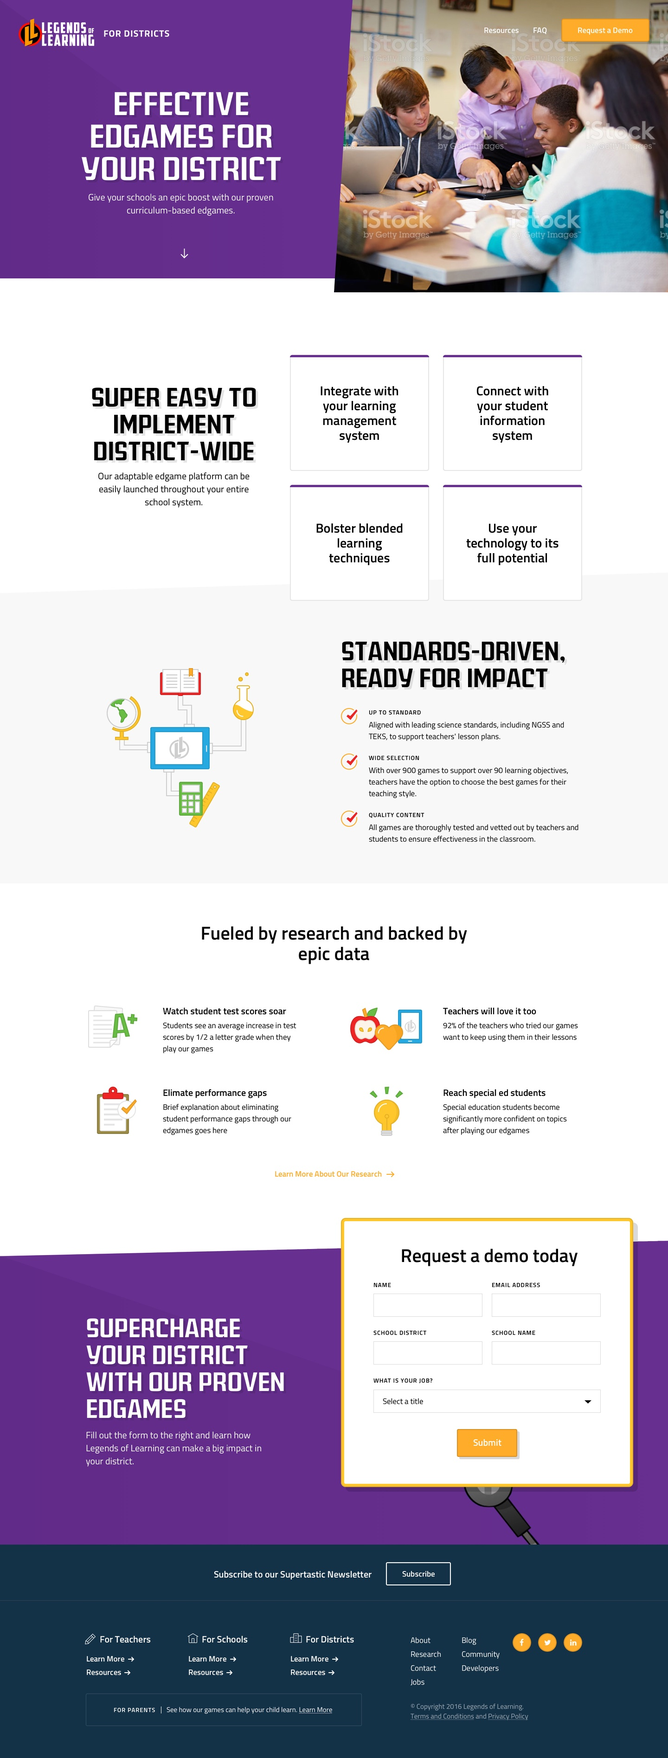
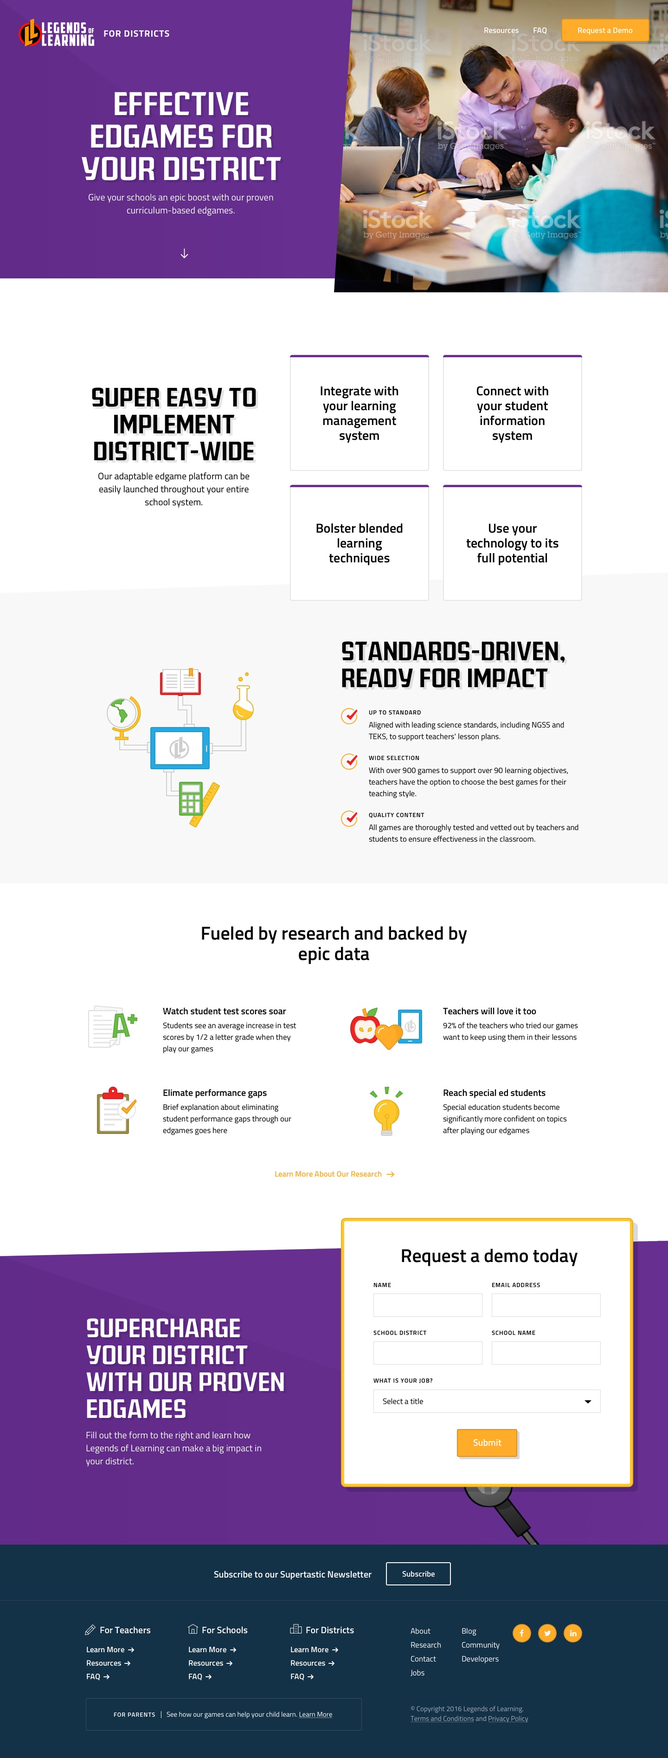
LoL: Design Updates

diff --git a/legends/designs-batch-a-v1/index.hyperesources/index_hype_generated_script.js b/legends/designs-batch-a-v1/index.hyperesources/index_hype_generated_script.js
@@ -3,5 +3,5 @@
 (function(){(function k(){function l(a,b,d){var c=!1;null==window[a]&&(null==window[b]?(window[b]=[],window[b].push(k),a=document.getElementsByTagName("head")[0],b=document.createElement("script"),c=h,false==!0&&(c=""),b.type="text/javascript",b.src=c+"/"+d,a.appendChild(b)):window[b].push(k),c=!0);return c}var h="index.hyperesources",c="index",e="index_hype_container";if(false==!1)try{for(var f=document.getElementsByTagName("script"),
 a=0;a<f.length;a++){var b=f[a].src;if(null!=b&&-1!=b.indexOf("index_hype_generated_script.js")){h=b.substr(0,b.lastIndexOf("/"));break}}}catch(n){}if(false==!1&&(a=navigator.userAgent.match(/MSIE (\d+\.\d+)/),a=parseFloat(a&&a[1])||null,a=l("HYPE_538","HYPE_dtl_538",!0==(null!=a&&10>a||false==!0)?"HYPE-538.full.min.js":"HYPE-538.thin.min.js"),false==!0&&(a=a||l("HYPE_w_538","HYPE_wdtl_538","HYPE-538.waypoints.min.js")),a))return;
 f=window.HYPE.documents;if(null!=f[c]){b=1;a=c;do c=""+a+"-"+b++;while(null!=f[c]);for(var d=document.getElementsByTagName("div"),b=!1,a=0;a<d.length;a++)if(d[a].id==e&&null==d[a].getAttribute("HYP_dn")){var b=1,g=e;do e=""+g+"-"+b++;while(null!=document.getElementById(e));d[a].id=e;b=!0;break}if(!1==b)return}b=[];b=[{name:"untitledFunction",source:"function(hypeDocument, element, event) {\t\n\t\t\n\t\t\tmenu = hypeDocument.getElementById('menu');\n\n\twindow.onscroll = function(){\n\t\tvar scroll = window.pageYOffset || (document.body.scrollTop || document.documentElement.scrollTop);\n\t\t\n\t\tvar menuDelta = 500;\n\t\tvar menuFadeOut = 2700;\n\n\t\tif (scroll > menuDelta){\n\t\t\tmenu.classList.add('sticky')\n\t\t}\n\t\tif (scroll <= menuDelta){\n\t\t\tmenu.classList.remove('sticky')\n\t\t}\n\t\tif (scroll > menuFadeOut){\n\t\t\tmenu.classList.remove('sticky')\n\t\t}\n\t};\t\n\t\n\n}",identifier:"60"},{name:"untitledFunction2",source:"function(hypeDocument, element, event) {\t\n\t\t\n\t\t\n\t\t\tmenu = hypeDocument.getElementById('menub');\n\n\twindow.onscroll = function(){\n\t\tvar scroll = window.pageYOffset || (document.body.scrollTop || document.documentElement.scrollTop);\n\t\t\n\t\tvar menubDelta = 250;\n\t\tvar menubFadeOut = 2300;\n\n\t\tif (scroll > menubDelta){\n\t\t\tmenub.classList.add('sticky')\n\t\t}\n\t\tif (scroll <= menubDelta){\n\t\t\tmenub.classList.remove('sticky')\n\t\t}\n\t\tif (scroll > menubFadeOut){\n\t\t\tmenub.classList.remove('sticky')\n\t\t}\n\t};\t\n\t\n\n\n}",identifier:"65"},{name:"untitledFunction3",source:"function(hypeDocument, element, event) {\t\n\t\t\n\t\t\n\t\t\n\t\t\tmenu = hypeDocument.getElementById('menuc');\n\n\twindow.onscroll = function(){\n\t\tvar scroll = window.pageYOffset || (document.body.scrollTop || document.documentElement.scrollTop);\n\t\t\n\t\tvar menucDelta = 250;\n\t\tvar menucFadeOut = 2400;\n\n\t\tif (scroll > menucDelta){\n\t\t\tmenuc.classList.add('sticky')\n\t\t}\n\t\tif (scroll <= menucDelta){\n\t\t\tmenuc.classList.remove('sticky')\n\t\t}\n\t\tif (scroll > menubFadeOut){\n\t\t\tmenuc.classList.remove('sticky')\n\t\t}\n\t};\t\n\t\n\n\n\n}",identifier:"127"}];d={};g={};for(a=0;a<b.length;a++)try{g[b[a].identifier]=b[a].name,d[b[a].name]=eval("(function(){return "+b[a].source+"})();")}catch(m){window.console&&window.console.log(m),
-d[b[a].name]=function(){}}a=new HYPE_538(c,e,{"18":{p:1,n:"footer-1.jpg",g:"161",o:true,t:"@1x"},"10":{p:1,n:"card-hover.png",g:"149",o:true,t:"@1x"},"19":{p:1,n:"footer-1_2x.jpg",g:"161",o:true,t:"@2x"},"11":{p:1,n:"card-hover_2x.png",g:"149",o:true,t:"@2x"},"0":{p:1,n:"teachers-sticky.jpg",g:"86",o:true,t:"@1x"},"12":{p:1,n:"newsletter-callout-1.jpg",g:"158",o:true,t:"@1x"},"1":{p:1,n:"teachers-sticky_2x.jpg",g:"86",o:true,t:"@2x"},"20":{p:1,n:"schools-homepage-1.jpg",g:"162",o:true,t:"@1x"},"2":{p:1,n:"schools-sticky.jpg",g:"123",o:true,t:"@1x"},"13":{p:1,n:"newsletter-callout-1_2x.jpg",g:"158",o:true,t:"@2x"},"3":{p:1,n:"schools-sticky_2x.jpg",g:"123",o:true,t:"@2x"},"21":{p:1,n:"schools-homepage-1_2x.jpg",g:"162",o:true,t:"@2x"},"14":{p:1,n:"district-homepage.jpg",g:"159",o:true,t:"@1x"},"4":{p:1,n:"districts-sticky.jpg",g:"125",o:true,t:"@1x"},"5":{p:1,n:"districts-sticky_2x.jpg",g:"125",o:true,t:"@2x"},"15":{p:1,n:"district-homepage_2x.jpg",g:"159",o:true,t:"@2x"},"22":{p:1,n:"about-homepage-1.jpg",g:"163",o:true,t:"@1x"},"6":{p:1,n:"newsletter-slideout.jpg",g:"146",o:true,t:"@1x"},"23":{p:1,n:"about-homepage-1_2x.jpg",g:"163",o:true,t:"@2x"},"16":{p:1,n:"teachers-homepage-1.jpg",g:"160",o:true,t:"@1x"},"7":{p:1,n:"newsletter-slideout_2x.jpg",g:"146",o:true,t:"@2x"},"8":{p:1,n:"card-text.png",g:"151",o:true,t:"@1x"},"17":{p:1,n:"teachers-homepage-1_2x.jpg",g:"160",o:true,t:"@2x"},"9":{p:1,n:"card-text_2x.png",g:"151",o:true,t:"@2x"}},h,[],d,[{n:"For Teachers",o:"1",X:[0]},{n:"For Schools",o:"14",X:[1]},{n:"For Districts",o:"88",X:[2]},{n:"About",o:"17",X:[3]}],[{A:{a:[{p:4,h:"60"}]},o:"3",p:"600px",x:0,cA:false,Z:4157,Y:1440,c:"#FFFFFF",L:[],bY:1,d:1440,U:{},T:{"67":{i:"67",n:"newsletter-slideout",z:0.24,b:[],a:[{f:"c",y:0,z:0.09,i:"e",e:0,s:1,o:"172"},{f:"c",y:0.09,z:0,i:"cY",e:"0",s:"1",o:"175"},{f:"c",y:0.09,z:0.06,i:"e",e:1,s:0,o:"175"},{y:0.09,i:"cY",s:"0",z:0,o:"175",f:"c"},{y:0.09,i:"e",s:0,z:0,o:"172",f:"c"},{f:"c",y:0.12,z:0.12,i:"b",e:3818,s:3499,o:"164"},{y:0.15,i:"e",s:1,z:0,o:"175",f:"c"},{y:0.24,i:"b",s:3818,z:0,o:"164",f:"c"}],f:30},kTimelineDefaultIdentifier:{i:"kTimelineDefaultIdentifier",n:"Main Timeline",z:0,b:[],a:[],f:30}},bZ:180,O:["167","170","171","169","168","166","174","173","164","172","175","165"],v:{"173":{c:184,d:82,I:"None",J:"None",K:"None",L:"None",aP:"pointer",M:0,N:0,A:"#D8DDE4",x:"visible",aA:{a:[{b:"67",p:3,z:false,symbolOid:"2"}]},B:"#D8DDE4",j:"absolute",k:"div",C:"#D8DDE4",z:22,O:0,D:"#D8DDE4",P:0,a:809,b:3400},"165":{h:"160",p:"no-repeat",x:"visible",a:0,q:"100% 100%",b:40,j:"absolute",r:"inline",c:1440,k:"div",z:13,d:3797},"171":{b:7,z:4,K:"None",c:99,L:"None",d:19,aS:3,M:0,e:0.59999999999999998,bD:"none",N:0,aT:3,O:0,g:"#333333",aU:3,P:0,bF:"166",aV:3,j:"absolute",aI:4,k:"div",aJ:4,aK:4,X:-0.32954499999999998,aL:4,A:"#A0A0A0",Y:19,B:"#A0A0A0",Z:"break-word",r:"inline",C:"#A0A0A0",D:"#A0A0A0",t:11,aA:{a:[{d:1.1000000000000001,p:1,g:1,e:"88"}]},F:"center",v:"normal",G:"#FFFFFF",aP:"pointer",w:"For Districts",x:"visible",I:"None",a:725,y:"preserve",J:"None"},"174":{h:"86",p:"no-repeat",x:"visible",i:"menu",q:"100% 100%",a:0,j:"absolute",b:-90,c:1440,k:"div",z:23,d:90,r:"inline"},"168":{c:1440,d:40,I:"None",J:"None",K:"None",g:"#D3D5D7",L:"None",M:0,N:0,bF:"166",A:"#D8DDE4",x:"visible",j:"absolute",B:"#D8DDE4",k:"div",O:0,C:"#D8DDE4",z:1,P:0,D:"#D8DDE4",a:0,b:0},"166":{x:"visible",k:"div",c:1440,d:40,z:24,e:1,a:0,j:"absolute",b:0},"172":{h:"158",p:"no-repeat",x:"visible",a:0,q:"100% 100%",b:3377,j:"absolute",cY:"0",z:19,k:"div",c:1440,d:120.83199999999999,r:"inline",e:1},"169":{b:7,z:2,K:"None",c:99,L:"None",d:19,aS:3,M:0,e:0.59999999999999998,bD:"none",N:0,aT:3,O:0,g:"#333333",aU:3,P:0,bF:"166",aV:3,j:"absolute",aI:4,k:"div",aJ:4,aK:4,X:-0.32954499999999998,aL:4,A:"#A0A0A0",Y:19,B:"#A0A0A0",Z:"break-word",r:"inline",C:"#A0A0A0",D:"#A0A0A0",t:11,aA:{a:[{d:1.1000000000000001,p:1,g:1,e:"17"}]},F:"center",v:"normal",G:"#FFFFFF",aP:"pointer",w:"About",x:"visible",I:"None",a:840,y:"preserve",J:"None"},"164":{h:"161",p:"no-repeat",x:"visible",a:0,q:"100% 100%",b:3499,j:"absolute",r:"inline",c:1440,k:"div",z:21,d:339},"170":{b:7,z:5,K:"None",c:99,L:"None",d:19,aS:3,M:0,e:0.59999999999999998,bD:"none",N:0,aT:3,O:0,g:"#333333",aU:3,P:0,bF:"166",aV:3,j:"absolute",aI:4,k:"div",aJ:4,aK:4,X:-0.32954499999999998,aL:4,A:"#A0A0A0",Y:19,B:"#A0A0A0",Z:"break-word",r:"inline",C:"#A0A0A0",D:"#A0A0A0",t:11,aA:{a:[{d:1.1000000000000001,p:1,g:1,e:"14"}]},F:"center",v:"normal",G:"#FFFFFF",aP:"pointer",w:"For Schools",x:"visible",I:"None",a:610,y:"preserve",J:"None"},"175":{h:"146",p:"no-repeat",x:"visible",a:0,q:"100% 100%",b:3378,j:"absolute",cY:"1",z:18,k:"div",c:1440,d:440,r:"inline",e:0},"167":{b:7,z:6,K:"None",c:99,L:"None",d:19,aS:3,M:0,e:0.29999999999999999,bD:"none",N:0,aT:3,O:0,g:"#333333",aU:3,P:0,bF:"166",aV:3,j:"absolute",aI:4,k:"div",aJ:4,aK:4,X:-0.32954499999999998,aL:4,A:"#A0A0A0",Y:19,B:"#A0A0A0",Z:"break-word",r:"inline",C:"#A0A0A0",D:"#A0A0A0",t:11,F:"center",v:"normal",G:"#FFFFFF",aP:"pointer",w:"For Teachers",x:"visible",I:"None",a:495,y:"preserve",J:"None"}}},{A:{a:[{p:4,h:"65"}]},o:"16",p:"600px",x:1,cA:false,Z:3555,Y:1440,c:"#FFFFFF",L:[],bY:1,d:1440,U:{},T:{"44":{i:"44",n:"card hover",z:0.1,b:[],a:[{f:"153",y:0,z:0.07,i:"d",e:250,s:0,o:"176"},{f:"c",y:0.03,z:0.07,i:"e",e:1,s:0,o:"177"},{y:0.07,i:"d",s:250,z:0,o:"176",f:"c"},{y:0.1,i:"e",s:1,z:0,o:"177",f:"c"}],f:30},kTimelineDefaultIdentifier:{i:"kTimelineDefaultIdentifier",n:"Main Timeline",z:0,b:[],a:[],f:30}},bZ:180,O:["182","181","184","185","183","180","187","179","177","178","176","186"],v:{"187":{h:"123",p:"no-repeat",x:"visible",i:"menub",q:"100% 100%",a:0,j:"absolute",b:-90,c:1440,k:"div",z:12,d:90,r:"inline"},"176":{k:"div",x:"hidden",c:300,d:0,z:9,r:"inline",a:955,j:"absolute",b:1310},"182":{b:7,z:6,K:"None",c:99,L:"None",d:19,aS:3,M:0,e:0.59999999999999998,bD:"none",N:0,aT:3,O:0,g:"#333333",aU:3,P:0,bF:"180",aV:3,j:"absolute",aI:4,k:"div",aJ:4,aK:4,X:-0.32954499999999998,aL:4,A:"#A0A0A0",Y:19,B:"#A0A0A0",Z:"break-word",r:"inline",C:"#A0A0A0",D:"#A0A0A0",t:11,aA:{a:[{d:1.1000000000000001,p:1,g:1,e:"1"}]},F:"center",v:"normal",G:"#FFFFFF",aP:"pointer",w:"For Teachers",x:"visible",I:"None",a:495,y:"preserve",J:"None"},"179":{c:298,d:249,I:"None",J:"None",K:"None",L:"None",M:0,N:0,A:"#D8DDE4",x:"visible",j:"absolute",B:"#D8DDE4",k:"div",O:0,C:"#D8DDE4",z:10,P:0,D:"#D8DDE4",aC:{a:[{b:"44",p:3,z:true,symbolOid:"15"}]},a:955,aD:{a:[{b:"44",p:3,z:false,symbolOid:"15"}]},b:1311},"180":{x:"visible",k:"div",c:1440,d:40,z:13,e:1,a:0,j:"absolute",b:0},"185":{b:7,z:2,K:"None",c:99,L:"None",d:19,aS:3,M:0,e:0.59999999999999998,bD:"none",N:0,aT:3,O:0,g:"#333333",aU:3,P:0,bF:"180",aV:3,j:"absolute",aI:4,k:"div",aJ:4,aK:4,X:-0.32954499999999998,aL:4,A:"#A0A0A0",Y:19,B:"#A0A0A0",Z:"break-word",r:"inline",C:"#A0A0A0",D:"#A0A0A0",t:11,aA:{a:[{d:1.1000000000000001,p:1,g:1,e:"17"}]},F:"center",v:"normal",G:"#FFFFFF",aP:"pointer",w:"About",x:"visible",I:"None",a:840,y:"preserve",J:"None"},"177":{h:"151",p:"no-repeat",x:"visible",a:32,q:"100% 100%",b:57,j:"absolute",bF:"176",z:2,k:"div",c:236,d:137,r:"inline",e:0},"183":{c:1440,d:40,I:"None",J:"None",K:"None",g:"#D3D5D7",L:"None",M:0,N:0,bF:"180",A:"#D8DDE4",x:"visible",j:"absolute",B:"#D8DDE4",k:"div",O:0,C:"#D8DDE4",z:1,P:0,D:"#D8DDE4",a:0,b:0},"186":{h:"162",p:"no-repeat",x:"visible",a:0,q:"100% 100%",b:40,j:"absolute",r:"inline",c:1440,k:"div",z:8,d:3515},"181":{b:7,z:5,K:"None",c:99,L:"None",d:19,aS:3,M:0,e:0.29999999999999999,bD:"none",N:0,aT:3,O:0,g:"#333333",aU:3,P:0,bF:"180",aV:3,j:"absolute",aI:4,k:"div",aJ:4,aK:4,X:-0.32954499999999998,aL:4,A:"#A0A0A0",Y:19,B:"#A0A0A0",Z:"break-word",r:"inline",C:"#A0A0A0",D:"#A0A0A0",t:11,F:"center",v:"normal",G:"#FFFFFF",aP:"pointer",w:"For Schools",x:"visible",I:"None",a:610,y:"preserve",J:"None"},"178":{h:"149",p:"no-repeat",x:"visible",a:0,q:"100% 100%",b:0,j:"absolute",bF:"176",c:300,k:"div",z:1,d:250,r:"inline"},"184":{b:7,z:4,K:"None",c:99,L:"None",d:19,aS:3,M:0,e:0.59999999999999998,bD:"none",N:0,aT:3,O:0,g:"#333333",aU:3,P:0,bF:"180",aV:3,j:"absolute",aI:4,k:"div",aJ:4,aK:4,X:-0.32954499999999998,aL:4,A:"#A0A0A0",Y:19,B:"#A0A0A0",Z:"break-word",r:"inline",C:"#A0A0A0",D:"#A0A0A0",t:11,aA:{a:[{d:1.1000000000000001,p:1,g:1,e:"88"}]},F:"center",v:"normal",G:"#FFFFFF",aP:"pointer",w:"For Districts",x:"visible",I:"None",a:725,y:"preserve",J:"None"}}},{A:{a:[{p:4,h:"127"}]},o:"96",p:"600px",x:2,cA:false,Z:3829,Y:1440,c:"#FFFFFF",L:[],bY:1,d:1440,U:{},T:{"95":{i:"95",n:"card hover",z:0,b:[],a:[],f:30},kTimelineDefaultIdentifier:{i:"kTimelineDefaultIdentifier",n:"Main Timeline",z:0,b:[],a:[],f:30}},bZ:180,O:["189","188","192","194","195","191","193","190"],v:{"190":{x:"visible",k:"div",c:1440,d:40,z:9,e:1,a:0,j:"absolute",b:0},"193":{c:1440,d:40,I:"None",J:"None",K:"None",g:"#D3D5D7",L:"None",M:0,N:0,bF:"190",A:"#D8DDE4",x:"visible",j:"absolute",B:"#D8DDE4",k:"div",O:0,C:"#D8DDE4",z:1,P:0,D:"#D8DDE4",a:0,b:0},"189":{h:"125",p:"no-repeat",x:"visible",i:"menuc",q:"100% 100%",a:0,j:"absolute",b:-90,c:1440,k:"div",z:11,d:90,r:"inline"},"192":{b:7,z:7,K:"None",c:99,L:"None",d:19,aS:3,M:0,e:0.59999999999999998,bD:"none",N:0,aT:3,O:0,g:"#333333",aU:3,P:0,bF:"190",aV:3,j:"absolute",aI:4,k:"div",aJ:4,aK:4,X:-0.32954499999999998,aL:4,A:"#A0A0A0",Y:19,B:"#A0A0A0",Z:"break-word",r:"inline",C:"#A0A0A0",D:"#A0A0A0",t:11,aA:{a:[{d:1.1000000000000001,p:1,g:1,e:"1"}]},F:"center",v:"normal",G:"#FFFFFF",aP:"pointer",w:"For Teachers",x:"visible",I:"None",a:495,y:"preserve",J:"None"},"195":{b:7,z:5,K:"None",c:99,L:"None",d:19,aS:3,M:0,e:0.29999999999999999,bD:"none",N:0,aT:3,O:0,g:"#333333",aU:3,P:0,bF:"190",aV:3,j:"absolute",aI:4,k:"div",aJ:4,aK:4,X:-0.32954499999999998,aL:4,A:"#A0A0A0",Y:19,B:"#A0A0A0",Z:"break-word",r:"inline",C:"#A0A0A0",D:"#A0A0A0",t:11,F:"center",v:"normal",G:"#FFFFFF",aP:"pointer",w:"For Districts",x:"visible",I:"None",a:725,y:"preserve",J:"None"},"188":{h:"159",p:"no-repeat",x:"visible",a:0,q:"100% 100%",b:40,j:"absolute",r:"inline",c:1440,k:"div",z:10,d:3789},"191":{b:7,z:2,K:"None",c:99,L:"None",d:19,aS:3,M:0,e:0.59999999999999998,bD:"none",N:0,aT:3,O:0,g:"#333333",aU:3,P:0,bF:"190",aV:3,j:"absolute",aI:4,k:"div",aJ:4,aK:4,X:-0.32954499999999998,aL:4,A:"#A0A0A0",Y:19,B:"#A0A0A0",Z:"break-word",r:"inline",C:"#A0A0A0",D:"#A0A0A0",t:11,aA:{a:[{d:1.1000000000000001,p:1,g:1,e:"17"}]},F:"center",v:"normal",G:"#FFFFFF",aP:"pointer",w:"About",x:"visible",I:"None",a:840,y:"preserve",J:"None"},"194":{b:7,z:6,K:"None",c:99,L:"None",d:19,aS:3,M:0,e:0.59999999999999998,bD:"none",N:0,aT:3,O:0,g:"#333333",aU:3,P:0,bF:"190",aV:3,j:"absolute",aI:4,k:"div",aJ:4,aK:4,X:-0.32954499999999998,aL:4,A:"#A0A0A0",Y:19,B:"#A0A0A0",Z:"break-word",r:"inline",C:"#A0A0A0",D:"#A0A0A0",t:11,aA:{a:[{d:1.1000000000000001,p:1,g:1,e:"14"}]},F:"center",v:"normal",G:"#FFFFFF",aP:"pointer",w:"For Schools",x:"visible",I:"None",a:610,y:"preserve",J:"None"}}},{o:"19",p:"600px",x:3,cA:false,Z:2770,Y:1440,c:"#FFFFFF",L:[],bY:1,d:1440,U:{},T:{kTimelineDefaultIdentifier:{i:"kTimelineDefaultIdentifier",n:"Main Timeline",z:0,b:[],a:[],f:30}},bZ:180,O:["202","199","201","197","198","200","196"],v:{"200":{c:1440,d:40,I:"None",J:"None",K:"None",g:"#D3D5D7",L:"None",M:0,N:0,bF:"196",A:"#D8DDE4",x:"visible",j:"absolute",B:"#D8DDE4",k:"div",O:0,C:"#D8DDE4",z:1,P:0,D:"#D8DDE4",a:0,b:0},"196":{x:"visible",k:"div",c:1440,d:40,z:1,e:1,a:0,j:"absolute",b:0},"199":{b:7,z:6,K:"None",c:99,L:"None",d:19,aS:3,M:0,e:0.59999999999999998,bD:"none",N:0,aT:3,O:0,g:"#333333",aU:3,P:0,bF:"196",aV:3,j:"absolute",aI:4,k:"div",aJ:4,aK:4,X:-0.32954499999999998,aL:4,A:"#A0A0A0",Y:19,B:"#A0A0A0",Z:"break-word",r:"inline",C:"#A0A0A0",D:"#A0A0A0",t:11,aA:{a:[{d:1.1000000000000001,p:1,g:1,e:"1"}]},F:"center",v:"normal",G:"#FFFFFF",aP:"pointer",w:"For Teachers",x:"visible",I:"None",a:495,y:"preserve",J:"None"},"202":{h:"163",p:"no-repeat",x:"visible",a:0,q:"100% 100%",b:40,j:"absolute",r:"inline",c:1440,k:"div",z:7,d:2730},"198":{b:7,z:2,K:"None",c:99,L:"None",d:19,aS:3,M:0,e:0.29999999999999999,bD:"none",N:0,aT:3,O:0,g:"#333333",aU:3,P:0,bF:"196",aV:3,j:"absolute",aI:4,k:"div",aJ:4,aK:4,X:-0.32954499999999998,aL:4,A:"#A0A0A0",Y:19,B:"#A0A0A0",Z:"break-word",r:"inline",C:"#A0A0A0",D:"#A0A0A0",t:11,F:"center",v:"normal",G:"#FFFFFF",aP:"pointer",w:"About",x:"visible",I:"None",a:840,y:"preserve",J:"None"},"201":{b:7,z:5,K:"None",c:99,L:"None",d:19,aS:3,M:0,e:0.59999999999999998,bD:"none",N:0,aT:3,O:0,g:"#333333",aU:3,P:0,bF:"196",aV:3,j:"absolute",aI:4,k:"div",aJ:4,aK:4,X:-0.32954499999999998,aL:4,A:"#A0A0A0",Y:19,B:"#A0A0A0",Z:"break-word",r:"inline",C:"#A0A0A0",D:"#A0A0A0",t:11,aA:{a:[{d:1.1000000000000001,p:1,g:1,e:"14"}]},F:"center",v:"normal",G:"#FFFFFF",aP:"pointer",w:"For Schools",x:"visible",I:"None",a:610,y:"preserve",J:"None"},"197":{b:7,z:4,K:"None",c:99,L:"None",d:19,aS:3,M:0,e:0.59999999999999998,bD:"none",N:0,aT:3,O:0,g:"#333333",aU:3,P:0,bF:"196",aV:3,j:"absolute",aI:4,k:"div",aJ:4,aK:4,X:-0.32954499999999998,aL:4,A:"#A0A0A0",Y:19,B:"#A0A0A0",Z:"break-word",r:"inline",C:"#A0A0A0",D:"#A0A0A0",t:11,aA:{a:[{d:1.1000000000000001,p:1,g:1,e:"88"}]},F:"center",v:"normal",G:"#FFFFFF",aP:"pointer",w:"For Districts",x:"visible",I:"None",a:725,y:"preserve",J:"None"}}}],{},g,{"153":[[0,0,0.0000000000,0.3696,0.7662,1.0162,1,1]]},null,false,true,-1,true,true,false,true);f[c]=a.API;document.getElementById(e).setAttribute("HYP_dn",
+d[b[a].name]=function(){}}a=new HYPE_538(c,e,{"18":{p:1,n:"schools-homepage.jpg",g:"162",o:true,t:"@1x"},"10":{p:1,n:"card-hover.png",g:"149",o:true,t:"@1x"},"19":{p:1,n:"schools-homepage_2x.jpg",g:"162",o:true,t:"@2x"},"11":{p:1,n:"card-hover_2x.png",g:"149",o:true,t:"@2x"},"0":{p:1,n:"teachers-sticky.jpg",g:"86",o:true,t:"@1x"},"12":{p:1,n:"newsletter-callout-1.jpg",g:"158",o:true,t:"@1x"},"1":{p:1,n:"teachers-sticky_2x.jpg",g:"86",o:true,t:"@2x"},"20":{p:1,n:"footer.jpg",g:"161",o:true,t:"@1x"},"2":{p:1,n:"schools-sticky.jpg",g:"123",o:true,t:"@1x"},"13":{p:1,n:"newsletter-callout-1_2x.jpg",g:"158",o:true,t:"@2x"},"3":{p:1,n:"schools-sticky_2x.jpg",g:"123",o:true,t:"@2x"},"21":{p:1,n:"footer_2x.jpg",g:"161",o:true,t:"@2x"},"14":{p:1,n:"about-homepage.jpg",g:"163",o:true,t:"@1x"},"4":{p:1,n:"districts-sticky.jpg",g:"125",o:true,t:"@1x"},"5":{p:1,n:"districts-sticky_2x.jpg",g:"125",o:true,t:"@2x"},"15":{p:1,n:"about-homepage_2x.jpg",g:"163",o:true,t:"@2x"},"22":{p:1,n:"teachers-homepage.jpg",g:"160",o:true,t:"@1x"},"6":{p:1,n:"newsletter-slideout.jpg",g:"146",o:true,t:"@1x"},"23":{p:1,n:"teachers-homepage_2x.jpg",g:"160",o:true,t:"@2x"},"16":{p:1,n:"district-homepage.jpg",g:"159",o:true,t:"@1x"},"7":{p:1,n:"newsletter-slideout_2x.jpg",g:"146",o:true,t:"@2x"},"8":{p:1,n:"card-text.png",g:"151",o:true,t:"@1x"},"17":{p:1,n:"district-homepage_2x.jpg",g:"159",o:true,t:"@2x"},"9":{p:1,n:"card-text_2x.png",g:"151",o:true,t:"@2x"}},h,[],d,[{n:"For Teachers",o:"1",X:[0]},{n:"For Schools",o:"14",X:[1]},{n:"For Districts",o:"88",X:[2]},{n:"About",o:"17",X:[3]}],[{A:{a:[{p:4,h:"60"}]},o:"3",p:"600px",x:0,cA:false,Z:4157,Y:1440,c:"#FFFFFF",L:[],bY:1,d:1440,U:{},T:{"67":{i:"67",n:"newsletter-slideout",z:0.24,b:[],a:[{f:"c",y:0,z:0.09,i:"e",e:0,s:1,o:"172"},{f:"c",y:0.09,z:0,i:"cY",e:"0",s:"1",o:"175"},{f:"c",y:0.09,z:0.06,i:"e",e:1,s:0,o:"175"},{y:0.09,i:"cY",s:"0",z:0,o:"175",f:"c"},{y:0.09,i:"e",s:0,z:0,o:"172",f:"c"},{f:"c",y:0.12,z:0.12,i:"b",e:3818,s:3499,o:"164"},{y:0.15,i:"e",s:1,z:0,o:"175",f:"c"},{y:0.24,i:"b",s:3818,z:0,o:"164",f:"c"}],f:30},kTimelineDefaultIdentifier:{i:"kTimelineDefaultIdentifier",n:"Main Timeline",z:0,b:[],a:[],f:30}},bZ:180,O:["167","170","171","169","168","166","174","173","164","172","175","165"],v:{"173":{c:184,d:82,I:"None",J:"None",K:"None",L:"None",aP:"pointer",M:0,N:0,A:"#D8DDE4",x:"visible",aA:{a:[{b:"67",p:3,z:false,symbolOid:"2"}]},B:"#D8DDE4",j:"absolute",k:"div",C:"#D8DDE4",z:22,O:0,D:"#D8DDE4",P:0,a:809,b:3400},"165":{h:"160",p:"no-repeat",x:"visible",a:0,q:"100% 100%",b:40,j:"absolute",r:"inline",c:1440,k:"div",z:13,d:3797},"171":{b:7,z:4,K:"None",c:99,L:"None",d:19,aS:3,M:0,e:0.59999999999999998,bD:"none",N:0,aT:3,O:0,g:"#333333",aU:3,P:0,bF:"166",aV:3,j:"absolute",aI:4,k:"div",aJ:4,aK:4,X:-0.32954499999999998,aL:4,A:"#A0A0A0",Y:19,B:"#A0A0A0",Z:"break-word",r:"inline",C:"#A0A0A0",D:"#A0A0A0",t:11,aA:{a:[{d:1.1000000000000001,p:1,g:1,e:"88"}]},F:"center",v:"normal",G:"#FFFFFF",aP:"pointer",w:"For Districts",x:"visible",I:"None",a:725,y:"preserve",J:"None"},"174":{h:"86",p:"no-repeat",x:"visible",i:"menu",q:"100% 100%",a:0,j:"absolute",b:-90,c:1440,k:"div",z:23,d:90,r:"inline"},"168":{c:1440,d:40,I:"None",J:"None",K:"None",g:"#D3D5D7",L:"None",M:0,N:0,bF:"166",A:"#D8DDE4",x:"visible",j:"absolute",B:"#D8DDE4",k:"div",O:0,C:"#D8DDE4",z:1,P:0,D:"#D8DDE4",a:0,b:0},"166":{x:"visible",k:"div",c:1440,d:40,z:24,e:1,a:0,j:"absolute",b:0},"172":{h:"158",p:"no-repeat",x:"visible",a:0,q:"100% 100%",b:3377,j:"absolute",cY:"0",z:19,k:"div",c:1440,d:120.83199999999999,r:"inline",e:1},"169":{b:7,z:2,K:"None",c:99,L:"None",d:19,aS:3,M:0,e:0.59999999999999998,bD:"none",N:0,aT:3,O:0,g:"#333333",aU:3,P:0,bF:"166",aV:3,j:"absolute",aI:4,k:"div",aJ:4,aK:4,X:-0.32954499999999998,aL:4,A:"#A0A0A0",Y:19,B:"#A0A0A0",Z:"break-word",r:"inline",C:"#A0A0A0",D:"#A0A0A0",t:11,aA:{a:[{d:1.1000000000000001,p:1,g:1,e:"17"}]},F:"center",v:"normal",G:"#FFFFFF",aP:"pointer",w:"About",x:"visible",I:"None",a:840,y:"preserve",J:"None"},"164":{h:"161",p:"no-repeat",x:"visible",a:0,q:"100% 100%",b:3499,j:"absolute",r:"inline",c:1440,k:"div",z:21,d:339},"170":{b:7,z:5,K:"None",c:99,L:"None",d:19,aS:3,M:0,e:0.59999999999999998,bD:"none",N:0,aT:3,O:0,g:"#333333",aU:3,P:0,bF:"166",aV:3,j:"absolute",aI:4,k:"div",aJ:4,aK:4,X:-0.32954499999999998,aL:4,A:"#A0A0A0",Y:19,B:"#A0A0A0",Z:"break-word",r:"inline",C:"#A0A0A0",D:"#A0A0A0",t:11,aA:{a:[{d:1.1000000000000001,p:1,g:1,e:"14"}]},F:"center",v:"normal",G:"#FFFFFF",aP:"pointer",w:"For Schools",x:"visible",I:"None",a:610,y:"preserve",J:"None"},"175":{h:"146",p:"no-repeat",x:"visible",a:0,q:"100% 100%",b:3378,j:"absolute",cY:"1",z:18,k:"div",c:1440,d:440,r:"inline",e:0},"167":{b:7,z:6,K:"None",c:99,L:"None",d:19,aS:3,M:0,e:0.29999999999999999,bD:"none",N:0,aT:3,O:0,g:"#333333",aU:3,P:0,bF:"166",aV:3,j:"absolute",aI:4,k:"div",aJ:4,aK:4,X:-0.32954499999999998,aL:4,A:"#A0A0A0",Y:19,B:"#A0A0A0",Z:"break-word",r:"inline",C:"#A0A0A0",D:"#A0A0A0",t:11,F:"center",v:"normal",G:"#FFFFFF",aP:"pointer",w:"For Teachers",x:"visible",I:"None",a:495,y:"preserve",J:"None"}}},{A:{a:[{p:4,h:"65"}]},o:"16",p:"600px",x:1,cA:false,Z:3555,Y:1440,c:"#FFFFFF",L:[],bY:1,d:1440,U:{},T:{"44":{i:"44",n:"card hover",z:0.1,b:[],a:[{f:"153",y:0,z:0.07,i:"d",e:250,s:0,o:"176"},{f:"c",y:0.03,z:0.07,i:"e",e:1,s:0,o:"177"},{y:0.07,i:"d",s:250,z:0,o:"176",f:"c"},{y:0.1,i:"e",s:1,z:0,o:"177",f:"c"}],f:30},kTimelineDefaultIdentifier:{i:"kTimelineDefaultIdentifier",n:"Main Timeline",z:0,b:[],a:[],f:30}},bZ:180,O:["182","181","184","185","183","180","187","179","177","178","176","186"],v:{"187":{h:"123",p:"no-repeat",x:"visible",i:"menub",q:"100% 100%",a:0,j:"absolute",b:-90,c:1440,k:"div",z:12,d:90,r:"inline"},"176":{k:"div",x:"hidden",c:300,d:0,z:9,r:"inline",a:955,j:"absolute",b:1310},"182":{b:7,z:6,K:"None",c:99,L:"None",d:19,aS:3,M:0,e:0.59999999999999998,bD:"none",N:0,aT:3,O:0,g:"#333333",aU:3,P:0,bF:"180",aV:3,j:"absolute",aI:4,k:"div",aJ:4,aK:4,X:-0.32954499999999998,aL:4,A:"#A0A0A0",Y:19,B:"#A0A0A0",Z:"break-word",r:"inline",C:"#A0A0A0",D:"#A0A0A0",t:11,aA:{a:[{d:1.1000000000000001,p:1,g:1,e:"1"}]},F:"center",v:"normal",G:"#FFFFFF",aP:"pointer",w:"For Teachers",x:"visible",I:"None",a:495,y:"preserve",J:"None"},"179":{c:298,d:249,I:"None",J:"None",K:"None",L:"None",M:0,N:0,A:"#D8DDE4",x:"visible",j:"absolute",B:"#D8DDE4",k:"div",O:0,C:"#D8DDE4",z:10,P:0,D:"#D8DDE4",aC:{a:[{b:"44",p:3,z:true,symbolOid:"15"}]},a:955,aD:{a:[{b:"44",p:3,z:false,symbolOid:"15"}]},b:1311},"180":{x:"visible",k:"div",c:1440,d:40,z:13,e:1,a:0,j:"absolute",b:0},"185":{b:7,z:2,K:"None",c:99,L:"None",d:19,aS:3,M:0,e:0.59999999999999998,bD:"none",N:0,aT:3,O:0,g:"#333333",aU:3,P:0,bF:"180",aV:3,j:"absolute",aI:4,k:"div",aJ:4,aK:4,X:-0.32954499999999998,aL:4,A:"#A0A0A0",Y:19,B:"#A0A0A0",Z:"break-word",r:"inline",C:"#A0A0A0",D:"#A0A0A0",t:11,aA:{a:[{d:1.1000000000000001,p:1,g:1,e:"17"}]},F:"center",v:"normal",G:"#FFFFFF",aP:"pointer",w:"About",x:"visible",I:"None",a:840,y:"preserve",J:"None"},"177":{h:"151",p:"no-repeat",x:"visible",a:32,q:"100% 100%",b:57,j:"absolute",bF:"176",z:2,k:"div",c:236,d:137,r:"inline",e:0},"183":{c:1440,d:40,I:"None",J:"None",K:"None",g:"#D3D5D7",L:"None",M:0,N:0,bF:"180",A:"#D8DDE4",x:"visible",j:"absolute",B:"#D8DDE4",k:"div",O:0,C:"#D8DDE4",z:1,P:0,D:"#D8DDE4",a:0,b:0},"186":{h:"162",p:"no-repeat",x:"visible",a:0,q:"100% 100%",b:40,j:"absolute",r:"inline",c:1440,k:"div",z:8,d:3515},"181":{b:7,z:5,K:"None",c:99,L:"None",d:19,aS:3,M:0,e:0.29999999999999999,bD:"none",N:0,aT:3,O:0,g:"#333333",aU:3,P:0,bF:"180",aV:3,j:"absolute",aI:4,k:"div",aJ:4,aK:4,X:-0.32954499999999998,aL:4,A:"#A0A0A0",Y:19,B:"#A0A0A0",Z:"break-word",r:"inline",C:"#A0A0A0",D:"#A0A0A0",t:11,F:"center",v:"normal",G:"#FFFFFF",aP:"pointer",w:"For Schools",x:"visible",I:"None",a:610,y:"preserve",J:"None"},"178":{h:"149",p:"no-repeat",x:"visible",a:0,q:"100% 100%",b:0,j:"absolute",bF:"176",c:300,k:"div",z:1,d:250,r:"inline"},"184":{b:7,z:4,K:"None",c:99,L:"None",d:19,aS:3,M:0,e:0.59999999999999998,bD:"none",N:0,aT:3,O:0,g:"#333333",aU:3,P:0,bF:"180",aV:3,j:"absolute",aI:4,k:"div",aJ:4,aK:4,X:-0.32954499999999998,aL:4,A:"#A0A0A0",Y:19,B:"#A0A0A0",Z:"break-word",r:"inline",C:"#A0A0A0",D:"#A0A0A0",t:11,aA:{a:[{d:1.1000000000000001,p:1,g:1,e:"88"}]},F:"center",v:"normal",G:"#FFFFFF",aP:"pointer",w:"For Districts",x:"visible",I:"None",a:725,y:"preserve",J:"None"}}},{A:{a:[{p:4,h:"127"}]},o:"96",p:"600px",x:2,cA:false,Z:3829,Y:1440,c:"#FFFFFF",L:[],bY:1,d:1440,U:{},T:{"95":{i:"95",n:"card hover",z:0,b:[],a:[],f:30},kTimelineDefaultIdentifier:{i:"kTimelineDefaultIdentifier",n:"Main Timeline",z:0,b:[],a:[],f:30}},bZ:180,O:["189","188","192","194","195","191","193","190"],v:{"190":{x:"visible",k:"div",c:1440,d:40,z:9,e:1,a:0,j:"absolute",b:0},"193":{c:1440,d:40,I:"None",J:"None",K:"None",g:"#D3D5D7",L:"None",M:0,N:0,bF:"190",A:"#D8DDE4",x:"visible",j:"absolute",B:"#D8DDE4",k:"div",O:0,C:"#D8DDE4",z:1,P:0,D:"#D8DDE4",a:0,b:0},"189":{h:"125",p:"no-repeat",x:"visible",i:"menuc",q:"100% 100%",a:0,j:"absolute",b:-90,c:1440,k:"div",z:11,d:90,r:"inline"},"192":{b:7,z:7,K:"None",c:99,L:"None",d:19,aS:3,M:0,e:0.59999999999999998,bD:"none",N:0,aT:3,O:0,g:"#333333",aU:3,P:0,bF:"190",aV:3,j:"absolute",aI:4,k:"div",aJ:4,aK:4,X:-0.32954499999999998,aL:4,A:"#A0A0A0",Y:19,B:"#A0A0A0",Z:"break-word",r:"inline",C:"#A0A0A0",D:"#A0A0A0",t:11,aA:{a:[{d:1.1000000000000001,p:1,g:1,e:"1"}]},F:"center",v:"normal",G:"#FFFFFF",aP:"pointer",w:"For Teachers",x:"visible",I:"None",a:495,y:"preserve",J:"None"},"195":{b:7,z:5,K:"None",c:99,L:"None",d:19,aS:3,M:0,e:0.29999999999999999,bD:"none",N:0,aT:3,O:0,g:"#333333",aU:3,P:0,bF:"190",aV:3,j:"absolute",aI:4,k:"div",aJ:4,aK:4,X:-0.32954499999999998,aL:4,A:"#A0A0A0",Y:19,B:"#A0A0A0",Z:"break-word",r:"inline",C:"#A0A0A0",D:"#A0A0A0",t:11,F:"center",v:"normal",G:"#FFFFFF",aP:"pointer",w:"For Districts",x:"visible",I:"None",a:725,y:"preserve",J:"None"},"188":{h:"159",p:"no-repeat",x:"visible",a:0,q:"100% 100%",b:40,j:"absolute",r:"inline",c:1440,k:"div",z:10,d:3789},"191":{b:7,z:2,K:"None",c:99,L:"None",d:19,aS:3,M:0,e:0.59999999999999998,bD:"none",N:0,aT:3,O:0,g:"#333333",aU:3,P:0,bF:"190",aV:3,j:"absolute",aI:4,k:"div",aJ:4,aK:4,X:-0.32954499999999998,aL:4,A:"#A0A0A0",Y:19,B:"#A0A0A0",Z:"break-word",r:"inline",C:"#A0A0A0",D:"#A0A0A0",t:11,aA:{a:[{d:1.1000000000000001,p:1,g:1,e:"17"}]},F:"center",v:"normal",G:"#FFFFFF",aP:"pointer",w:"About",x:"visible",I:"None",a:840,y:"preserve",J:"None"},"194":{b:7,z:6,K:"None",c:99,L:"None",d:19,aS:3,M:0,e:0.59999999999999998,bD:"none",N:0,aT:3,O:0,g:"#333333",aU:3,P:0,bF:"190",aV:3,j:"absolute",aI:4,k:"div",aJ:4,aK:4,X:-0.32954499999999998,aL:4,A:"#A0A0A0",Y:19,B:"#A0A0A0",Z:"break-word",r:"inline",C:"#A0A0A0",D:"#A0A0A0",t:11,aA:{a:[{d:1.1000000000000001,p:1,g:1,e:"14"}]},F:"center",v:"normal",G:"#FFFFFF",aP:"pointer",w:"For Schools",x:"visible",I:"None",a:610,y:"preserve",J:"None"}}},{o:"19",p:"600px",x:3,cA:false,Z:2770,Y:1440,c:"#FFFFFF",L:[],bY:1,d:1440,U:{},T:{kTimelineDefaultIdentifier:{i:"kTimelineDefaultIdentifier",n:"Main Timeline",z:0,b:[],a:[],f:30}},bZ:180,O:["202","199","201","197","198","200","196"],v:{"200":{c:1440,d:40,I:"None",J:"None",K:"None",g:"#D3D5D7",L:"None",M:0,N:0,bF:"196",A:"#D8DDE4",x:"visible",j:"absolute",B:"#D8DDE4",k:"div",O:0,C:"#D8DDE4",z:1,P:0,D:"#D8DDE4",a:0,b:0},"196":{x:"visible",k:"div",c:1440,d:40,z:1,e:1,a:0,j:"absolute",b:0},"199":{b:7,z:6,K:"None",c:99,L:"None",d:19,aS:3,M:0,e:0.59999999999999998,bD:"none",N:0,aT:3,O:0,g:"#333333",aU:3,P:0,bF:"196",aV:3,j:"absolute",aI:4,k:"div",aJ:4,aK:4,X:-0.32954499999999998,aL:4,A:"#A0A0A0",Y:19,B:"#A0A0A0",Z:"break-word",r:"inline",C:"#A0A0A0",D:"#A0A0A0",t:11,aA:{a:[{d:1.1000000000000001,p:1,g:1,e:"1"}]},F:"center",v:"normal",G:"#FFFFFF",aP:"pointer",w:"For Teachers",x:"visible",I:"None",a:495,y:"preserve",J:"None"},"202":{h:"163",p:"no-repeat",x:"visible",a:0,q:"100% 100%",b:40,j:"absolute",r:"inline",c:1440,k:"div",z:7,d:2730},"198":{b:7,z:2,K:"None",c:99,L:"None",d:19,aS:3,M:0,e:0.29999999999999999,bD:"none",N:0,aT:3,O:0,g:"#333333",aU:3,P:0,bF:"196",aV:3,j:"absolute",aI:4,k:"div",aJ:4,aK:4,X:-0.32954499999999998,aL:4,A:"#A0A0A0",Y:19,B:"#A0A0A0",Z:"break-word",r:"inline",C:"#A0A0A0",D:"#A0A0A0",t:11,F:"center",v:"normal",G:"#FFFFFF",aP:"pointer",w:"About",x:"visible",I:"None",a:840,y:"preserve",J:"None"},"201":{b:7,z:5,K:"None",c:99,L:"None",d:19,aS:3,M:0,e:0.59999999999999998,bD:"none",N:0,aT:3,O:0,g:"#333333",aU:3,P:0,bF:"196",aV:3,j:"absolute",aI:4,k:"div",aJ:4,aK:4,X:-0.32954499999999998,aL:4,A:"#A0A0A0",Y:19,B:"#A0A0A0",Z:"break-word",r:"inline",C:"#A0A0A0",D:"#A0A0A0",t:11,aA:{a:[{d:1.1000000000000001,p:1,g:1,e:"14"}]},F:"center",v:"normal",G:"#FFFFFF",aP:"pointer",w:"For Schools",x:"visible",I:"None",a:610,y:"preserve",J:"None"},"197":{b:7,z:4,K:"None",c:99,L:"None",d:19,aS:3,M:0,e:0.59999999999999998,bD:"none",N:0,aT:3,O:0,g:"#333333",aU:3,P:0,bF:"196",aV:3,j:"absolute",aI:4,k:"div",aJ:4,aK:4,X:-0.32954499999999998,aL:4,A:"#A0A0A0",Y:19,B:"#A0A0A0",Z:"break-word",r:"inline",C:"#A0A0A0",D:"#A0A0A0",t:11,aA:{a:[{d:1.1000000000000001,p:1,g:1,e:"88"}]},F:"center",v:"normal",G:"#FFFFFF",aP:"pointer",w:"For Districts",x:"visible",I:"None",a:725,y:"preserve",J:"None"}}}],{},g,{"153":[[0,0,0.0000000000,0.3696,0.7662,1.0162,1,1]]},null,false,true,-1,true,true,false,true);f[c]=a.API;document.getElementById(e).setAttribute("HYP_dn",
 c);a.z_o(this.body)})();})();
